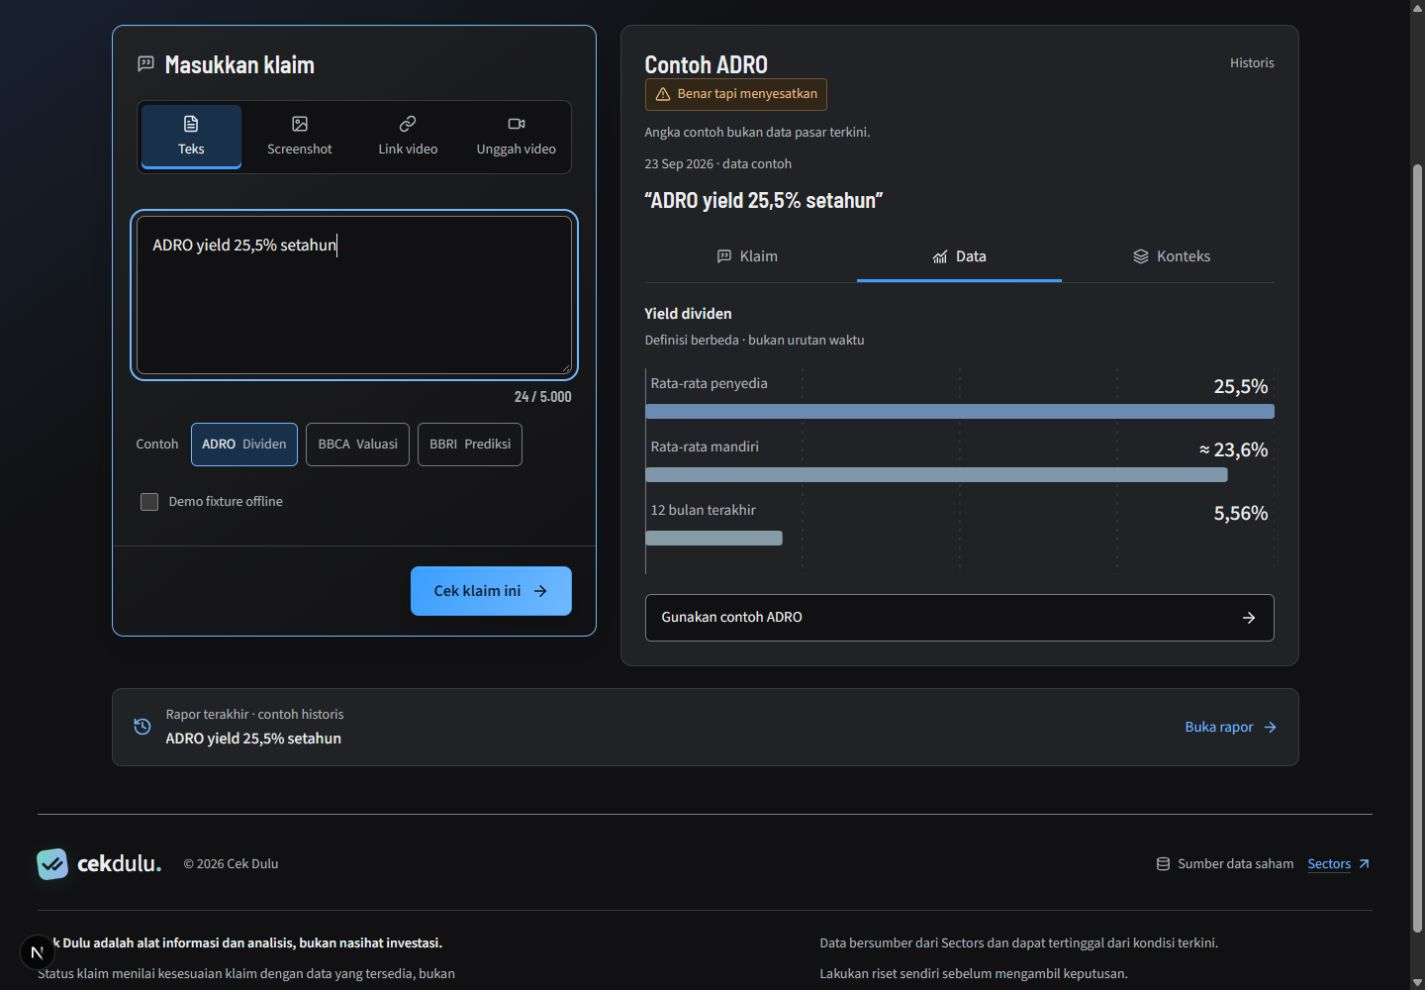
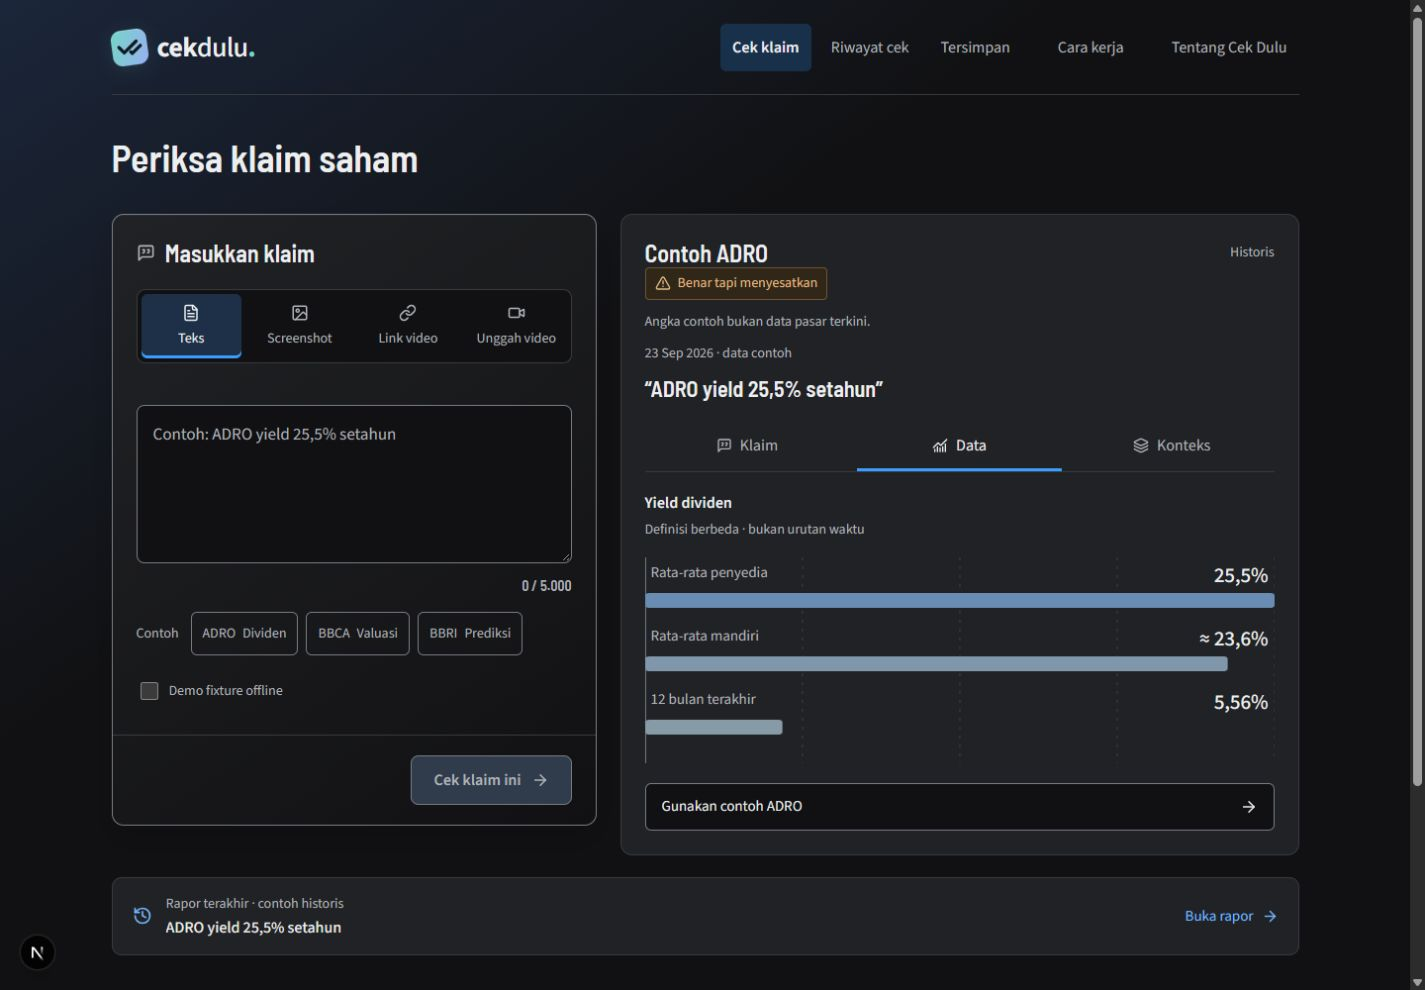
docs: record production build and verified interface screenshots

diff --git a/docs/design-implementation-review.md b/docs/design-implementation-review.md
@@ -14,9 +14,10 @@ Rapor kini membaca status → kutipan → perbandingan angka → sumber/konteks 
 
 - pnpm test: 775 test dalam 27 berkas lulus.
 - pnpm -r typecheck: lulus.
+- pnpm --filter @cek-dulu/web build: lulus, termasuk kompilasi, pemeriksaan tipe, dan pembuatan halaman produksi.
 - Browser desktop 1440 px; mobile 390 dan 360 px: halaman hasil, sumber, dan riwayat tidak overflow horizontal.
 - Cek ADRO melalui UI dalam fixture offline: satu klaim, verdict misleading, delapan event trace. Panel sumber terbuka dan grafik tersedia; tombol tutup bekerja. Tidak menggunakan kredit API live.
-- Tampilan link video memakai alur adapter yang sudah ada; test media menguji baca, retry, error, review, dan validasi berkas dengan mock. Pembacaan video asli tidak diuji di sesi desain.
+- Tampilan link video diverifikasi di browser: memasukkan URL mengaktifkan tombol Baca isi video dengan gradien biru; tidak menekan tombol pemrosesan. Test media menguji baca, retry, error, review, dan validasi berkas dengan mock. Pembacaan video asli tidak diuji di sesi desain.
 
 Gambar implementasi disimpan di docs/design-mockups/exports dengan awalan implemented-. Gambar tersebut berasal dari aplikasi, berbeda dari mockup statis yang tetap tersedia pada port 3012.
 
